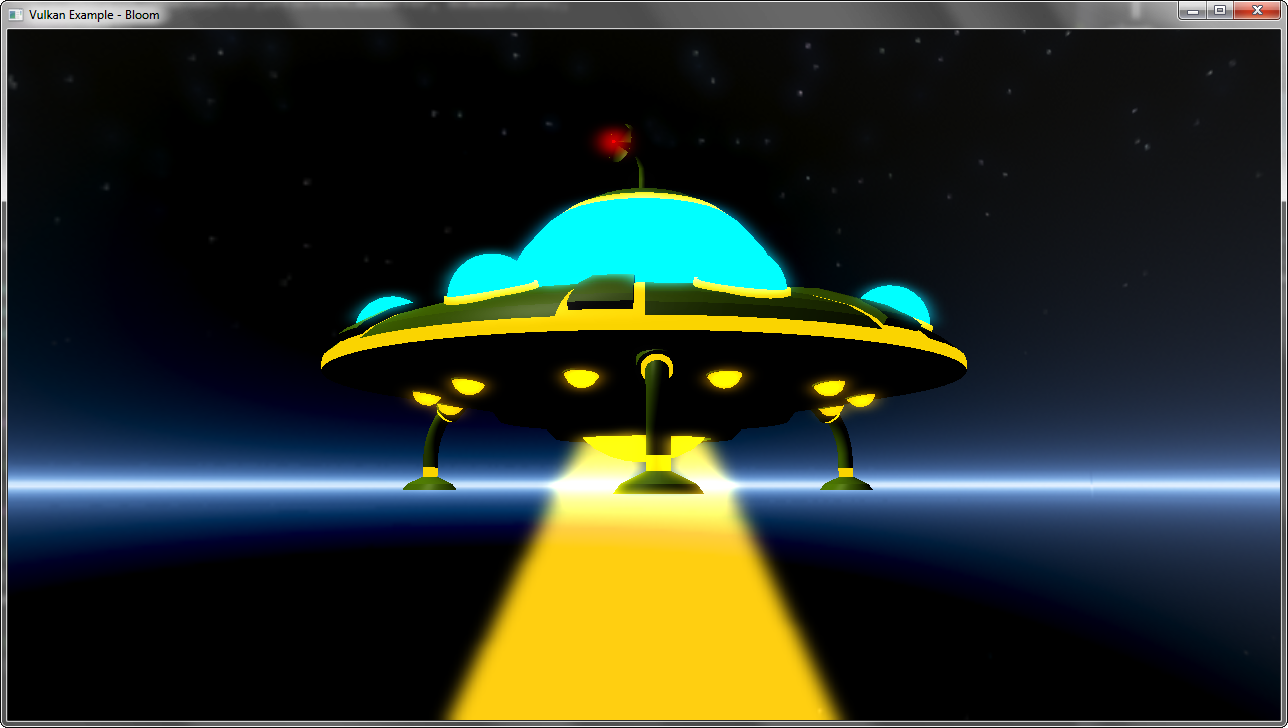
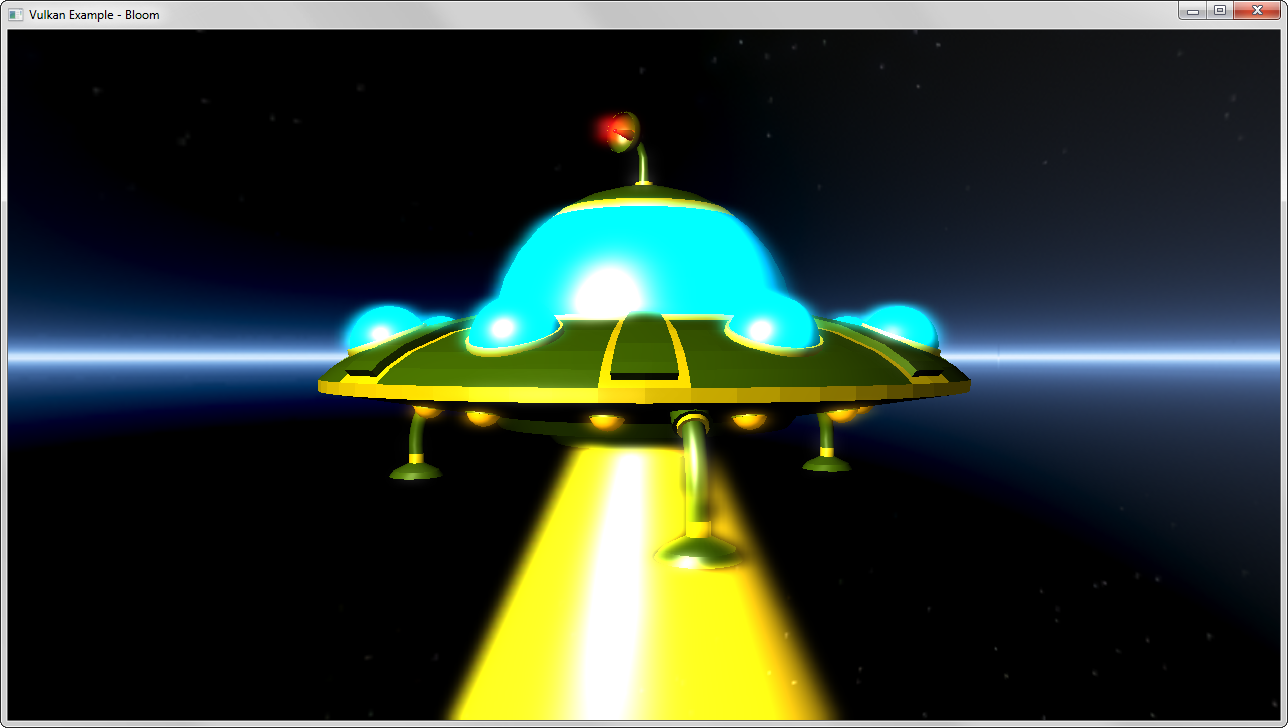
Updated bloom shaders (better lighting with specular)

diff --git a/bloom/bloom.cpp b/bloom/bloom.cpp
@@ -80,7 +80,7 @@ public:
 		int32_t texWidth = TEX_DIM;
 		int32_t texHeight = TEX_DIM;
 		float blurScale = 1.0f;
-		float blurStrength = 1.0f;
+		float blurStrength = 1.5f;
 		uint32_t horizontal;
 	};
 
